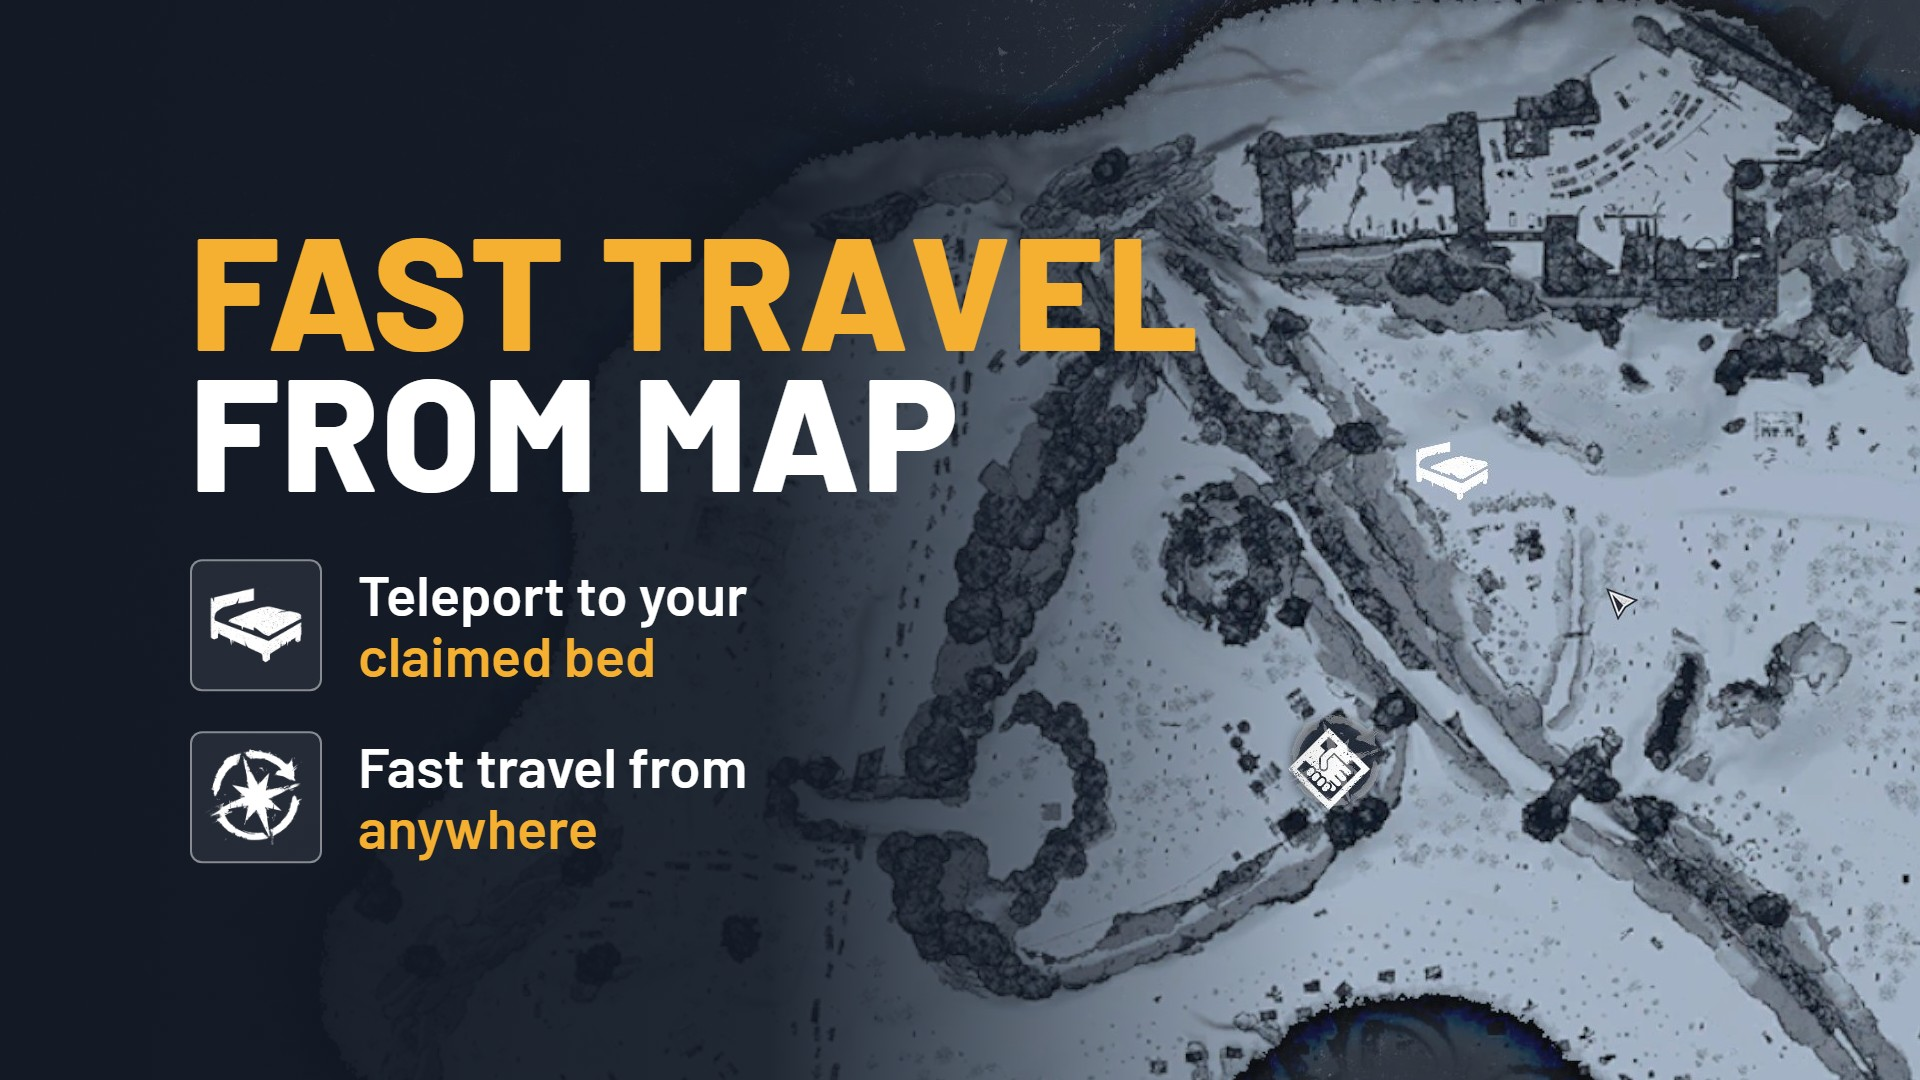
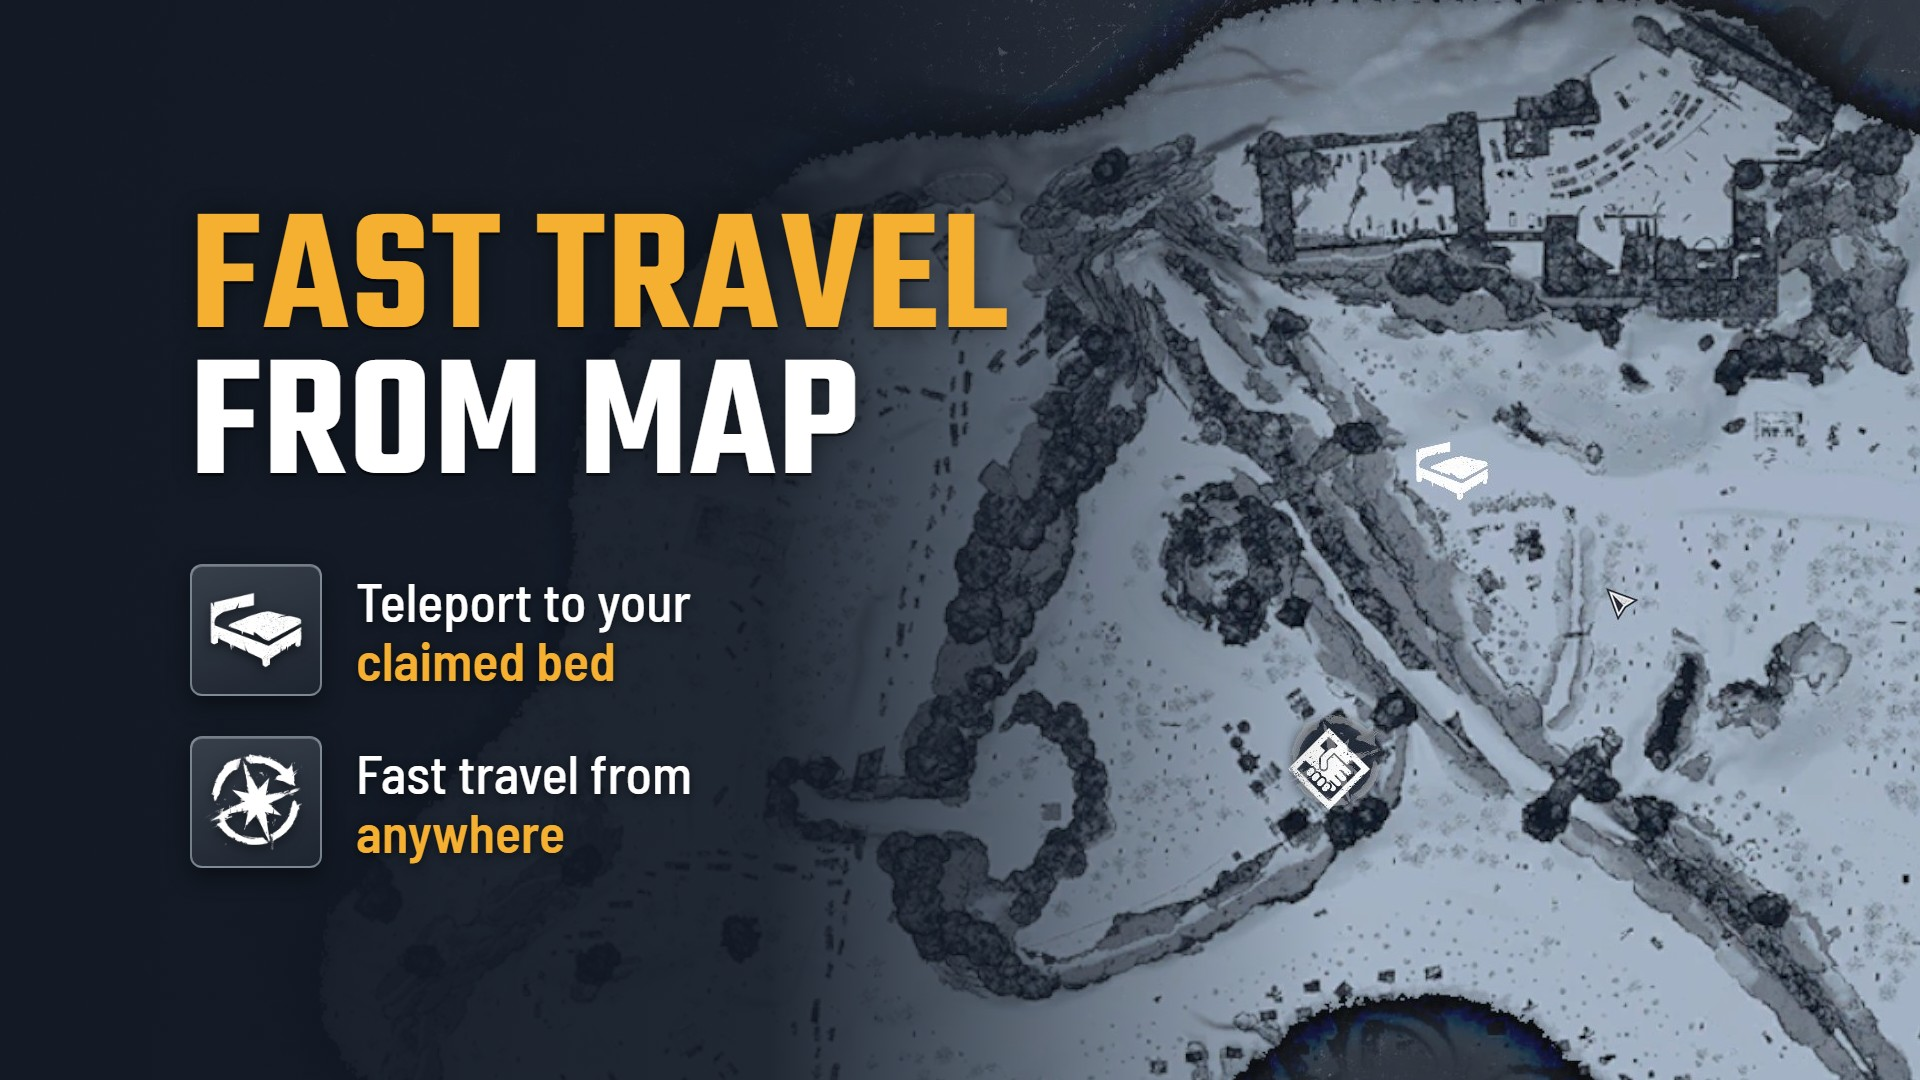
Render the Nexus thumbnail in the new shared Permafrost layout
Teko title, Barlow Semi Condensed captions, and shadows, from the shared MOD-IMAGES.md style.

diff --git a/nexus/images/README.md b/nexus/images/README.md
@@ -4,7 +4,7 @@ Made from in-game screenshots at 3840x2160.
 
 | File | Size | Role | Content |
 |---|---|---|---|
-| `00-thumbnail.jpg` | 1920x1080 | Gallery, first (Nexus uses it as the mods-grid thumbnail) | The title "Fast Travel From Map" ("Fast Travel" in gold), and two lines with the game's map icons: the bed with "Teleport to your claimed bed", and the fast-travel point with "Fast travel from anywhere". The title block starts 190 px from the left and is centered vertically, clear of the menu button that Nexus draws over the top-right corner of the grid card. On the smallest grid card, the check box and the update badge cover a small part of the top-left corner of the title; this is accepted. The background is a crop of the map (M) with the claimed bed icon on the right, darkened on the left. The icons are the game's own textures (`T_bed01`, `T_fastTravel01`). The layout is the series layout of the Permafrost mods. Rendered with the nexus-mod-images tool from `content.json` and `src/bed-map.jpg`. |
+| `00-thumbnail.jpg` | 1920x1080 | Gallery, first (Nexus uses it as the mods-grid thumbnail) | The title "Fast Travel From Map" ("Fast Travel" in gold), and two lines with the game's map icons: the bed with "Teleport to your claimed bed", and the fast-travel point with "Fast travel from anywhere". The background is a crop of the map (M) (`src/bed-map.jpg`) with the claimed bed icon on the right, darkened on the left. The icons are the game's own textures (`T_bed01`, `T_fastTravel01`). The layout is the series layout of the Permafrost mods (`MOD-IMAGES.md`); on the smallest grid card, the check box and the update badge cover a small part of the top-left corner of the title, which is accepted. Rendered with the nexus-mod-images tool from `content.json` and the screenshot in `src/`. |
 | `background.jpg` | 1300x372 | Page background | A crop of the map (M) from the same screenshot, scaled down by 0.65 and darkened, most on the left and at the bottom, where Nexus puts the breadcrumbs, the title, the stats, and the buttons. In the free top-right area: a gold ring around the claimed bed icon, the game's fast-travel icon (`T_fastTravel01`), and a gold dotted path between them. Rendered with the nexus-mod-images tool from `content.json` and `src/bed-map.jpg`. |
 | `gallery-1-bed.jpg` | 1920x1080 | Gallery | The map (M) after a click on the claimed bed: the travel window shows "Bed" with Confirm and Cancel. The whole screenshot, scaled to 1920x1080. |
 | `gallery-2-fast-travel.jpg` | 1920x1080 | Gallery | The map (M) after a click on the fast-travel point Horizon (its icon has the gold ring of the selection): the travel window shows "Horizon" with Confirm and Cancel. The whole screenshot, scaled to 1920x1080. |
